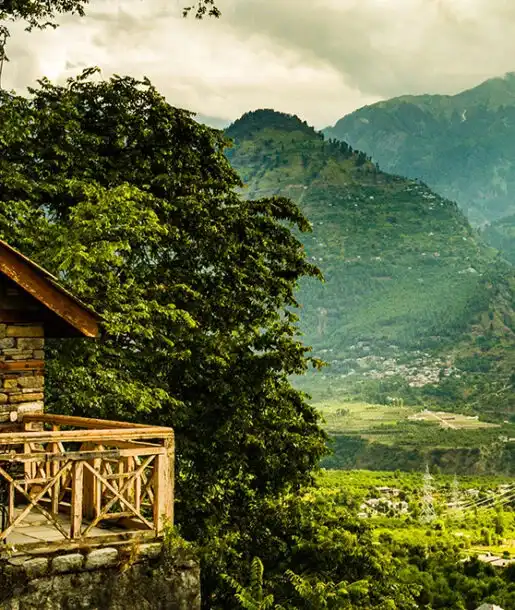
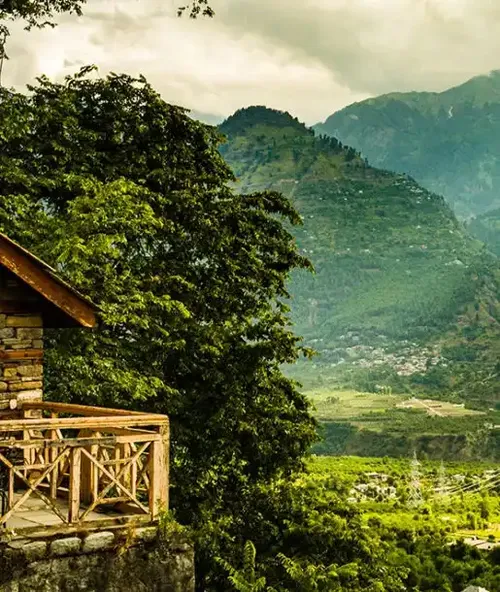
changes

Changed region(s): [[0.09, 0.0, 0.12, 0.0304]]

diff --git a/scripts/resize-images.py b/scripts/resize-images.py
@@ -1,0 +1,20 @@
+import os
+from PIL import Image
+
+
+def resize_images(folder_path, max_width):
+    for filename in os.listdir(folder_path):
+        if filename.endswith(".jpg") or filename.endswith(".png") or filename.endswith(".webp"):
+            filepath = os.path.join(folder_path, filename)
+            with Image.open(filepath) as im:
+                width, height = im.size
+                if width > max_width:
+                    new_height = int((max_width / width) * height)
+                    im = im.resize((max_width, new_height), Image.ANTIALIAS)
+                    im.save(filepath)
+
+
+print("Enter folder path : ")
+fp = input()
+print("Enter the max width : ", end="")
+resize_images(fp, int(input()))
